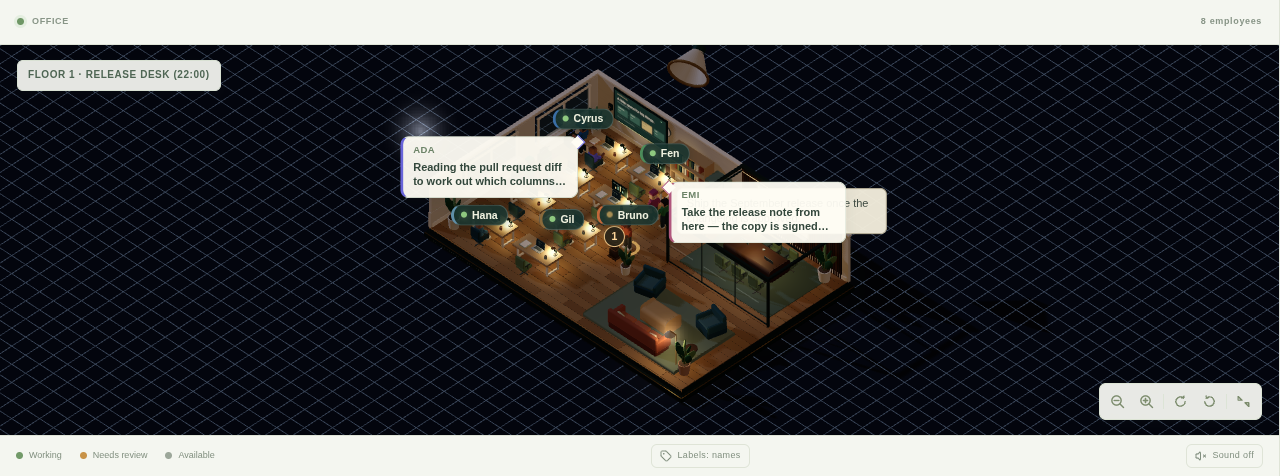
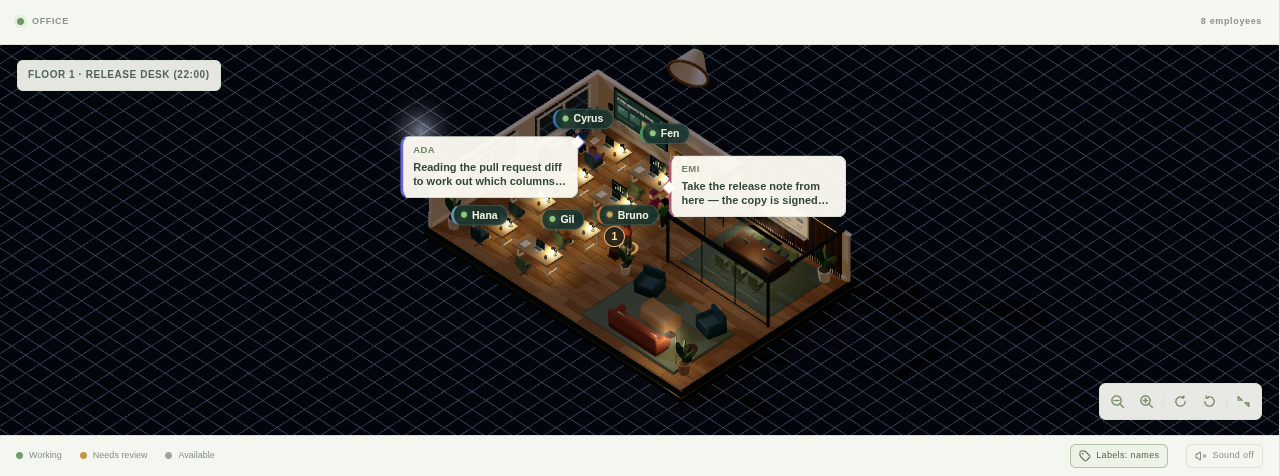
Route the office overlay around the board note and lift small type on phones

Changed region(s): [[0.5, 0.2647, 0.7188, 0.5294], [0.5, 0.9412, 0.5938, 0.9706], [0.8438, 0.9412, 0.9062, 0.9706]]

diff --git a/components/office/office-signals.tsx b/components/office/office-signals.tsx
@@ -1,10 +1,11 @@
 'use client';
 
-import { useEffect, useMemo, useRef, useState } from 'react';
+import { useEffect, useLayoutEffect, useMemo, useRef, useState } from 'react';
 import type { JSX } from 'react';
 import { useFrame } from '@react-three/fiber';
 import { Html } from '@react-three/drei';
 import * as THREE from 'three';
+import { useOverlayEntry } from './office-overlay';
 import { Box, C, Round, type Point } from './office-primitives';
 
 const AMBER = '#e8a54f';
@@ -194,12 +195,29 @@ export function ProviderConsole({
   );
 }
 
-/** The whiteboard's latest note, pinned as a small cream card. */
+/**
+ * The whiteboard's latest note, pinned as a small cream card. It joins the
+ * declutter pass as a fixed obstacle: pills and bubbles route around it, and it
+ * gives way to a bubble that has nowhere else to go.
+ */
 export function BoardNote({ position, note }: { position: Point; note?: string }): JSX.Element | null {
+  const entry = useOverlayEntry('office-note');
+  useLayoutEffect(() => {
+    if (!entry) return;
+    entry.pinned = true;
+    entry.anchor.set(...position);
+  }, [entry, position]);
   if (!note) return null;
   return (
     <Html position={position} center zIndexRange={[18, 8]}>
-      <div className="office-note">{note}</div>
+      <div
+        className="office-note"
+        ref={(element) => {
+          if (entry) entry.pill = element;
+        }}
+      >
+        {note}
+      </div>
     </Html>
   );
 }

diff --git a/components/office/office.css b/components/office/office.css
@@ -250,7 +250,7 @@
   padding: 7px 9px;
   border: 1px solid #b8b098;
   border-radius: 6px;
-  background: #f4efddf2;
+  background: #f4efdd;
   color: #3d4a42;
   font-size: 11px;
   line-height: 1.35;
@@ -261,9 +261,32 @@
   line-clamp: 3;
 }
 
+/* It steps aside for a bubble that has nowhere else to open. */
+.office-note[data-covered='true'] {
+  visibility: hidden;
+}
+
 @container (max-width: 520px) {
   /* Not enough width to read the board note without covering the room. */
   .office-note {
     display: none;
+  }
+}
+
+/* A phone reads at 12px or better: the office chrome keeps its desktop sizes and
+   lifts every small label to the mobile floor. */
+@media (max-width: 620px) {
+  /* A wrapped legend keeps its toggles together rather than pushing one right. */
+  .office-labels {
+    margin-left: 0;
+  }
+  .office-pill,
+  .office-tray-count,
+  .office-note,
+  .office-sound,
+  .office-labels,
+  .office-bubble > button,
+  .office-bubble strong {
+    font-size: 12px;
   }
 }

diff --git a/components/office/office-overlay.tsx b/components/office/office-overlay.tsx
@@ -17,6 +17,8 @@ export type OverlayEntry = {
   bubble: HTMLElement | null;
   /** Hover, focus or selection keeps a pill on screen even when it is covered. */
   forced: boolean;
+  /** A fixed card, such as the board note: it never moves, so everything routes around it. */
+  pinned?: boolean;
 };
 
 export type Overlay = {
@@ -97,7 +99,7 @@ export function OfficeOverlay({ children }: { children: ReactNode }) {
         y,
         width: pill.offsetWidth,
         height: pill.offsetHeight,
-        priority: entry.forced ? 5 : entry.priority,
+        priority: entry.pinned ? 6 : entry.forced ? 5 : entry.priority,
       });
     }
     layoutLabels(pills).forEach((placement, index) => {

diff --git a/components/office/office-scene.tsx b/components/office/office-scene.tsx
@@ -294,8 +294,8 @@ export function OfficeScene({
           </group>
         ))}
         <StatusDevice position={STATUS_DEVICE} degraded={degraded} motion={motion} />
-        <BoardNote position={BOARD_NOTE} note={note} />
         <OfficeOverlay>
+          <BoardNote position={BOARD_NOTE} note={note} />
           {people.map((person) => (
             <EmployeeAvatar
               key={person.employee.id}

diff --git a/components/office/office-view.css b/components/office/office-view.css
@@ -171,3 +171,15 @@
     bottom: 59px;
   }
 }
+
+/* The floor label and the empty-office note keep their desktop sizes and lift to
+   the 12px mobile floor on a phone. */
+@media (max-width: 620px) {
+  .office-view-floor,
+  .office-view-note,
+  .office-view-fallback p,
+  .office-view-fallback button,
+  .office-view-fallback button span {
+    font-size: 12px;
+  }
+}
